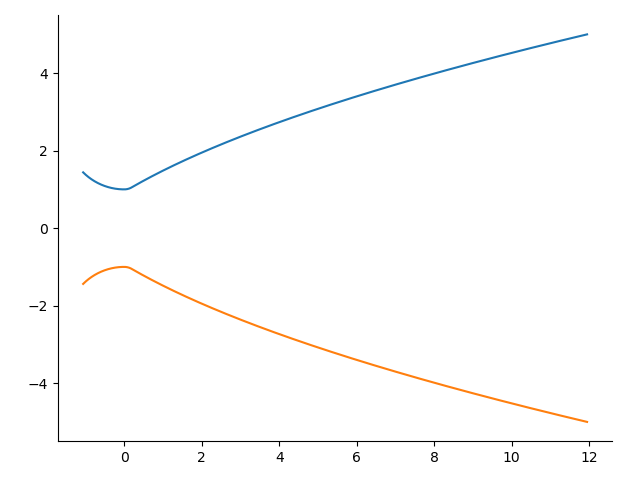
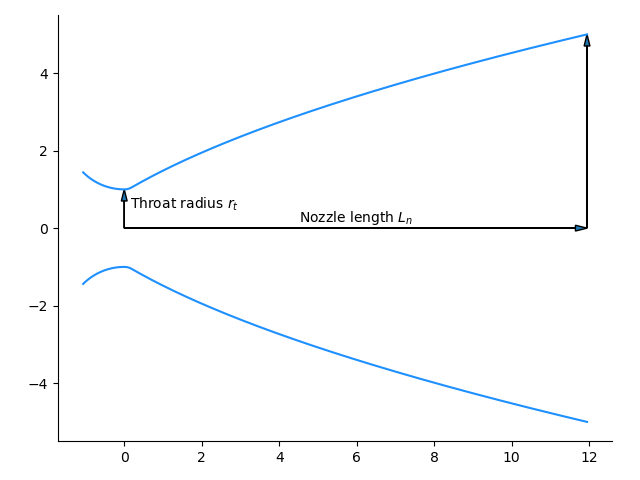
Annotate Rao nozzle plot

diff --git a/spacetoolbox/nozzle/rao_thrust_optimized.py b/spacetoolbox/nozzle/rao_thrust_optimized.py
@@ -163,24 +163,42 @@ def calculate_parabolic(radius_throat, area_ratio, theta_i,
     export_parabolic(x_nozzle, y_nozzle)
 
     plot_parabolic(x_nozzle, y_nozzle, radius_throat, area_ratio, theta_i,
-                     theta_exit)
+                     theta_exit, x_sc_endpoint, y_sc_endpoint, y_exit,
+                     length_nozzle, x_fc)
 
     return length_nozzle
 
 
 # Add plot function
 def plot_parabolic(x_nozzle, y_nozzle, radius_throat, area_ratio, theta_i,
-                     theta_exit):
+                   theta_exit, x_sc_endpoint, y_sc_endpoint, y_exit,
+                   length_nozzle, x_fc):
+
     negative_y_nozzle = -1 * y_nozzle
     fig = plt.figure()
-    # Add axes object to our figure that takes up entire figure
+
+    # Plot definition
     ax = fig.add_subplot(111)
     ax.spines['right'].set_visible(False)
     ax.spines['top'].set_visible(False)
-    ax.plot(x_nozzle, y_nozzle)
-    ax.plot(x_nozzle, negative_y_nozzle)
+    ax.plot(x_nozzle, y_nozzle, color="dodgerblue")
+    ax.plot(x_nozzle, negative_y_nozzle, color="dodgerblue")
     fig.tight_layout()
     plt.axis('scaled')
+
+    # Annotations and Arrows
+    plt.arrow(0, 0, length_nozzle, 0, length_includes_head=True,
+          head_width=0.15, head_length=0.3)
+    plt.annotate(r'Nozzle length $L_n$', xy=(length_nozzle / 2, 0.15),
+                   ha='center')
+    plt.arrow(0, 0, 0, radius_throat, length_includes_head=True,
+          head_width=0.15, head_length=0.3)
+    plt.annotate(r'Throat radius $r_t$', xy=(0.15, radius_throat / 2),
+                   ha='left')
+    plt.arrow(length_nozzle, 0, 0, y_exit, 
+            length_includes_head=True, head_width=0.15, head_length=0.3)
+
+
     plt.savefig('rao_thrust_optimized_parabola.png')
 
 
